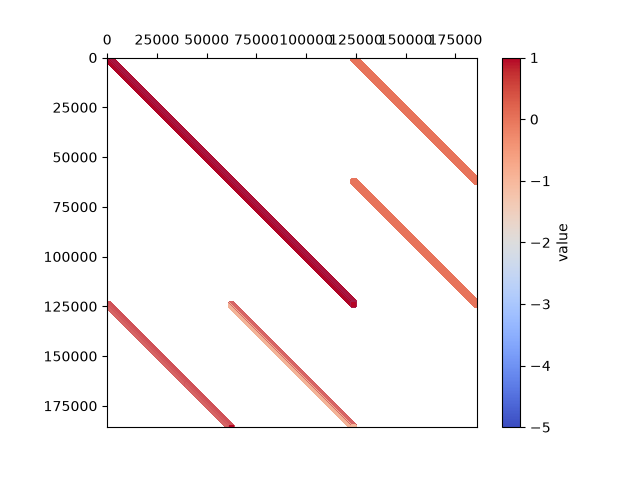
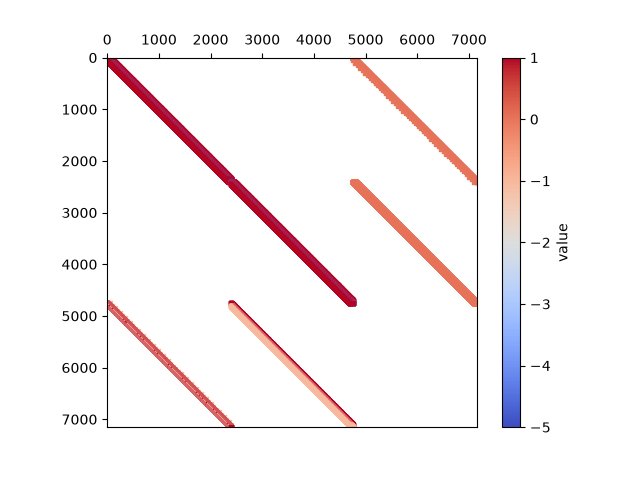
Got error plot and magnitude plot

diff --git a/Scripts/stokes_solver_v2.py b/Scripts/stokes_solver_v2.py
@@ -192,26 +192,51 @@ def grid_eval(u, v, p, Nx, Ny, x, y):
 
     return u_grids, v_grids, p_grids
 
-def convTest(mesh_range, num_trials, Operator, filepath):
+def bcApply(u,v, BCs):
+    U = np.hstack((u[:,-1:],u)) # Apply Periodic BC in U
+    V = np.vstack((BCs[0]*np.ones((1,v.shape[1])),v,BCs[1]*np.ones((1,v.shape[1])))) # Apply Dirichlet BCs in Y
+    return U, V
+
+def gridInterp(u,v, BCs):
+    u_temp, v_temp = bcApply(u,v, BCs)
+    u_vec = np.zeros((u_temp.shape[0], u_temp.shape[1]-1))
+    v_vec = np.zeros((v_temp.shape[0]-1, v_temp.shape[1]))
+    for i in range(v_vec.shape[0]):
+        u_vec[:,i] = (u_temp[:, i+1] + u_temp[:, i])/2.0
+        v_vec[i,:] = (v_temp[i+1,:] + v_temp[i,:])/2.0
+    return [u_vec, v_vec]
+
+def rel_error(u_exact, u_approx):
+    L_2_error = np.linalg.norm(u_exact-u_approx, ord = 'fro')/np.linalg.norm(u_exact, ord = 'fro')
+    return L_2_error
+
+def convTest(mesh_range, num_trials, exact_sol, num_Operator, x, y, BCs, filepath = 'Images\\convergence_plot.png'):
     meshes = np.floor(np.linspace(mesh_range[0], mesh_range[1], num_trials)).astype(int)
-    L_2 = np.zeros(num_trials)
+    L_2 = np.zeros((3,num_trials))
     for i in range(num_trials):
         print(f"Simulating mesh with {meshes[i]**2} nodes")
-        U_approx,V_approx,P_approx = Operator(meshes[i])
-        L_2[i] = rel_error(a, b, meshes[i]) #calculate relative errors for increasingly finer meshes.
+        U_temp,V_temp,P_approx = num_Operator(meshes[i])
+        U_approx, V_approx = gridInterp(U_temp, V_temp, BCs)
+        u_grid, v_grid, p_grid = buildGrids(x, y, meshes[i]-1, meshes[i]-1)
+        xx, yy = p_grid[0], p_grid[1]
+        U_exact, V_exact, P_exact = exact_sol(xx,yy)
+        
+        L_2[0,i] = rel_error(U_exact, U_approx) #calculate relative errors for increasingly finer meshes.
+        L_2[1,i] = rel_error(V_exact, V_approx) #calculate relative errors for increasingly finer meshes.
+        L_2[2,i] = rel_error(P_exact, P_approx) #calculate relative errors for increasingly finer meshes.
 
     fig3 = plt.figure(3)
     ax3 = plt.axes()
     plt.rcParams['lines.linewidth'] = 3 
-#   plt.plot(meshes, L_2, label = "L_2")
-    plt.loglog(meshes, L_2, label = "L_2")
-#   plt.loglog(meshes, L_inf, label = "L_inf")
-#   ax3.set_xscale('log')
-#   ax3.set_yscale('log')
+    plt.loglog(meshes, L_2[1,:], label = "V")
+    plt.loglog(meshes, L_2[2,:], label = "P")
+    plt.loglog(meshes, 1/meshes**2, label = "Reference")
+    plt.loglog(meshes, L_2[0,:], label = "U")
     plt.legend()
     ax3.set_xlabel("Number of FD Nodes")
     ax3.set_ylabel("Relative Error")
-    plt.savefig('Images\\problem4_3.png')
+    plt.savefig(filepath)
+    return 0
 
 def main():
     # Control Panel
@@ -237,6 +262,7 @@ def main():
     # V horizontal BCs,
     V_y_0 = -3.5
     V_y_L = -3.5
+    V_BCs = [V_y_0, V_y_L]
 
     # Set up the square
     Ny = Nx
@@ -278,6 +304,23 @@ def main():
 
     # Plot convergence curve
     O_stokes = lambda Nx: StokesSolver(mu, Nx, Nx, x, y, f, g, U_y_0, V_y_0, U_y_L, V_y_L, verbose=False, make_spy=False)
+    exact_sol = lambda x,y: [u_exact(x,y), v_exact(x,y), p_exact(x,y)]
+    convTest([10,100], 10, exact_sol, O_stokes, x, y, V_BCs)
+
+    # Plot mag of u
+    U_vec = gridInterp(U_approx, V_approx, V_BCs)
+    U_mag = np.sqrt(U_vec[0]**2 + U_vec[1]**2)
+    plt.figure()
+    ax = plt.axes()
+    plt.pcolormesh(P_bundle[0], P_bundle[1], U_mag, cmap = 'viridis')
+    ax.set_aspect('equal')
+    ax.set_xlabel("x")
+    ax.set_ylabel("y")
+    fig1.colorbar(im0, ax=ax1, orientation='vertical', fraction=0.046, pad=0.04,  shrink=0.6)
+    ax1[0].set_title('Error in U')
+    ax1[1].set_title('Error in V')
+    ax1[2].set_title('Error in P')
+    plt.savefig("Images\\mag_u.png", bbox_inches='tight')
 
     # Plot a flow field
 
